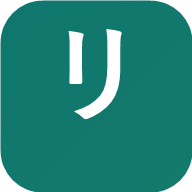
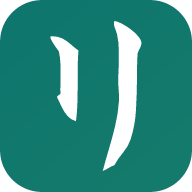
Redraw the Recall mark as a centered brush katakana ri.

diff --git a/index.html b/index.html
@@ -8,16 +8,15 @@
   <meta name="apple-mobile-web-app-title" content="Recall" />
   <meta name="apple-mobile-web-app-capable" content="yes" />
   <title>Recall — Spaced Repetition Flashcards</title>
-  <link rel="icon" href="favicon.svg?v=20261019-ri-mark" type="image/svg+xml" />
-  <link rel="icon" href="favicon.ico?v=20261019-ri-mark" sizes="any" />
-  <link rel="icon" href="icons/favicon-32.png?v=20261019-ri-mark" type="image/png" sizes="32x32" />
-  <link rel="apple-touch-icon" href="icons/apple-touch-icon.png?v=20261019-ri-mark" />
+  <link rel="icon" href="favicon.svg?v=20261019-ri-fancy" type="image/svg+xml" />
+  <link rel="icon" href="favicon.ico?v=20261019-ri-fancy" sizes="any" />
+  <link rel="icon" href="icons/favicon-32.png?v=20261019-ri-fancy" type="image/png" sizes="32x32" />
+  <link rel="apple-touch-icon" href="icons/apple-touch-icon.png?v=20261019-ri-fancy" />
   <link rel="manifest" href="site.webmanifest" />
   <link rel="preconnect" href="https://fonts.googleapis.com" />
   <link rel="preconnect" href="https://fonts.gstatic.com" crossorigin />
   <link href="https://fonts.googleapis.com/css2?family=Fraunces:opsz,wght@9..144,500;9..144,700&family=Nunito:wght@400;600;700&display=swap" rel="stylesheet" />
-  <link href="https://fonts.googleapis.com/css2?family=Noto+Sans+JP:wght@700&text=%E3%83%AA&display=swap" rel="stylesheet" />
-  <link rel="stylesheet" href="css/styles.css?v=20261019-ri-mark" />
+  <link rel="stylesheet" href="css/styles.css?v=20261019-ri-fancy" />
   <script>
     try {
       const raw = localStorage.getItem("recall-flashcards-v1");
@@ -31,7 +30,13 @@
 
   <header class="topbar">
     <button type="button" class="brand" id="btn-home" aria-label="Go to home">
-      <span class="brand-mark">リ</span>
+      <span class="brand-mark" aria-hidden="true">
+        <svg viewBox="0 0 64 64" focusable="false">
+          <g fill="currentColor" transform="translate(32 32) scale(0.062344 -0.062344) translate(-477.900 -325.000)">
+            <path d="M721 610Q721 601 718 592.5Q715 584 710 576Q707 570 704.5 564Q702 558 700 551Q698 515 697.5 480Q697 445 697 410Q696 327 691.5 247.5Q687 168 663 93Q651 56 623 23Q595 -10 576 -45Q559 -51 545 -60Q531 -69 514 -76Q529 -18 547 41.5Q565 101 580.5 165.5Q596 230 601 301Q602 315 601 329.5Q600 344 599 358Q598 369 597.5 380Q597 391 597 402Q597 421 597.5 440Q598 459 599 477Q600 523 600 566.5Q600 610 591 652Q589 659 587 666Q585 673 582 680Q577 693 574.5 705Q572 717 576 726Q591 725 615 712.5Q639 700 663 682Q687 664 703.5 644.5Q720 625 721 610ZM384 568Q381 534 380.5 495Q380 456 380 414Q380 359 379 302Q378 245 371 190Q343 198 325.5 218Q308 238 295 265.5Q282 293 269 320Q272 326 278 329.5Q284 333 288 337Q287 356 287.5 376Q288 396 288 415Q289 455 288 493Q287 531 279 564Q267 580 255.5 597Q244 614 235 633Q235 635 235 638Q234 644 238 645Q275 645 298.5 632.5Q322 620 341.5 602.5Q361 585 384 568Z"/>
+          </g>
+        </svg>
+      </span>
       <span class="brand-name">Recall</span>
     </button>
     <div class="topbar-end">
@@ -46,11 +51,11 @@
 
   <div id="toast" class="toast" hidden role="status" aria-live="polite"></div>
 
-  <script src="js/builtin-sets.js?v=20261019-ri-mark"></script>
-  <script src="js/storage.js?v=20261019-ri-mark"></script>
-  <script src="js/spaced.js?v=20261019-ri-mark"></script>
-  <script src="js/import.js?v=20261019-ri-mark"></script>
-  <script src="js/quiz.js?v=20261019-ri-mark"></script>
-  <script src="js/app.js?v=20261019-ri-mark"></script>
+  <script src="js/builtin-sets.js?v=20261019-ri-fancy"></script>
+  <script src="js/storage.js?v=20261019-ri-fancy"></script>
+  <script src="js/spaced.js?v=20261019-ri-fancy"></script>
+  <script src="js/import.js?v=20261019-ri-fancy"></script>
+  <script src="js/quiz.js?v=20261019-ri-fancy"></script>
+  <script src="js/app.js?v=20261019-ri-fancy"></script>
 </body>
 </html>

diff --git a/css/styles.css b/css/styles.css
@@ -149,11 +149,14 @@ body {
   place-items: center;
   background: linear-gradient(145deg, var(--teal), #147a6b);
   color: white;
-  font-family: "Noto Sans JP", "Yu Gothic", "Hiragino Sans", sans-serif;
-  font-size: 1.45rem;
-  font-weight: 700;
-  line-height: 1;
   box-shadow: 0 8px 18px rgba(15, 118, 110, 0.28);
+  overflow: hidden;
+}
+
+.brand-mark svg {
+  width: 100%;
+  height: 100%;
+  display: block;
 }
 
 .brand-name {
